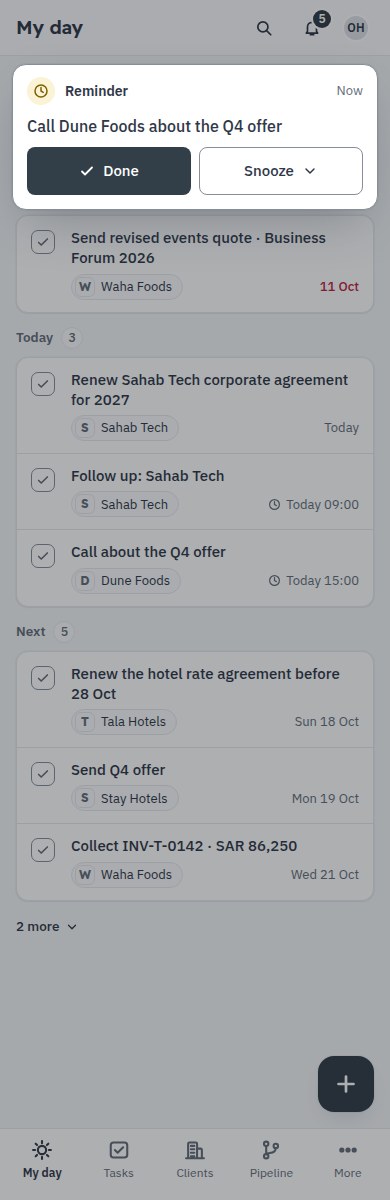
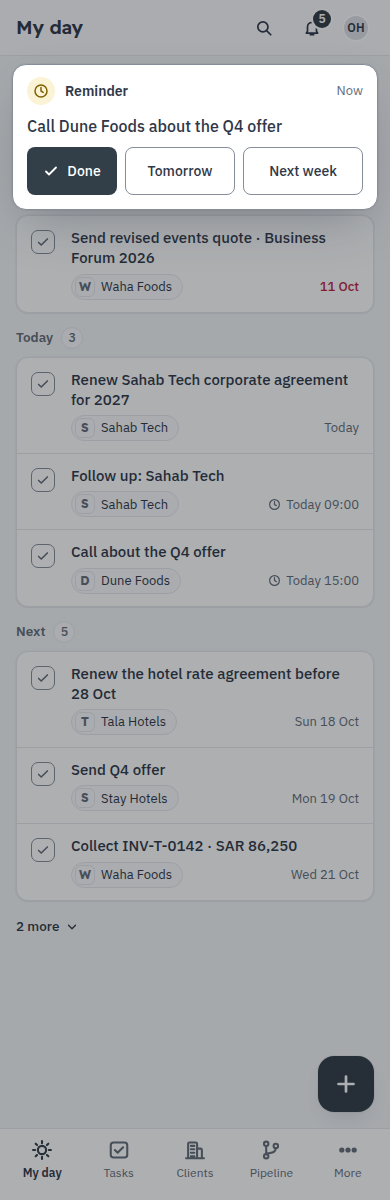
Design: Stage 2 alert has no Snooze (Done, Tomorrow, Next week); browser notification line (Architect, 14 Oct)
Claude-Session: https://claude.ai/code/session_01WPS8Rw97iDr6Hh5jw5gHY1

Changed region(s): [[0.1846, 0.1233, 0.5538, 0.185], [0.6154, 0.1233, 0.8615, 0.1542]]

diff --git a/docs/v2/briefs/my-day-stage2.md b/docs/v2/briefs/my-day-stage2.md
@@ -9,15 +9,14 @@ Stage 1 shipped as #230 (6ea08a0); this builds on it and changes nothing else.
 | Piece | Shipped in Stage 1 | Stage 2 |
 |---|---|---|
 | Reminder time | Reminder shows a raw date-and-time field | **When** chips: **Later today · Tomorrow · Next week · Pick a day**, and always one line saying the result ("Wed 14 Oct · 09:00"); **Pick a day** opens a Day field, a Time field and five time chips (08:00 09:00 12:00 15:00 17:00) |
-| Reminder alert | A reminder only waits in Today and in the bell | At its time, an **alert** with **Done** and **Snooze** (Later today / Tomorrow / Next week); the bell gets the same item |
+| Reminder alert | A reminder only waits in Today and in the bell | At its time, an **alert** with **Done**, **Tomorrow** and **Next week** (no Snooze in v1, the Architect's ruling of 14 Oct); the bell gets the same item; a browser notification too if the person allows it |
 | Follow up | None | **Follow up** on a client and on a task: one entry in the record's existing ⋯ More actions menu; it opens the Capture sheet in Reminder mode, already tied to the record; it becomes a chip on the record and a row in Today |
 
 ## B. Boards (`my-day-stage2/`, one PNG each)
 
 | Board | Shows |
 |---|---|
-| `PhoneReminderAlert` | My day with the alert over it: clock, "Reminder", "Now", the words, **Done** and **Snooze**; Today already lists the reminder rows |
-| `PhoneReminderSnooze` | The same with Snooze open: Later today 17:30, Tomorrow 09:00, Next week Sun 18 Oct |
+| `PhoneReminderAlert` | My day with the alert over it: clock, "Reminder", "Now", the words, **Done**, **Tomorrow**, **Next week**; Today already lists the reminder rows |
 | `PhoneCaptureWhen` | Capture sheet, Reminder: the default, Tomorrow chosen, the result line "Wed 14 Oct · 09:00" under the chips |
 | `PhoneCaptureWhenPick` | Capture sheet, Reminder, **Pick a day** open: Day, Time, time chips; the result line under the chips |
 | `PhoneClientMenu` | Client record on a phone with the ⋯ menu open: **Follow up** is the first entry (the rest stay as built) |
@@ -33,22 +32,22 @@ Stage 1 shipped as #230 (6ea08a0); this builds on it and changes nothing else.
 | Addition | Adds a menu entry, button, field or screen? | Could an existing one serve? | Clear in 5 seconds on a phone? | Removed or merged |
 |---|---|---|---|---|
 | When chips | No new control: they replace the date-and-time field; Pick a day shows two fields only when chosen | The Stage 1 field served but needed a keyboard on a phone | Yes: one tap for the three usual answers; the result is written out under the chips | The raw date-and-time field is removed |
-| Reminder alert | One alert card, the existing toast pattern with two buttons; no screen | The bell serves for later, not for the moment it is due | Yes: the words, Done, Snooze | The bell row and the alert are one item; Snooze uses the same three answers as the chips and the bell's existing Snooze |
+| Reminder alert | One alert card, the existing toast pattern with three buttons; no screen | The bell serves for later, not for the moment it is due | Yes: the words, Done, Tomorrow, Next week | The bell row and the alert are one item; there is no Snooze: Tomorrow and Next week are the When answers again |
 | Follow up | One entry in an existing menu, per record type; no button, no screen | Yes: it is the Capture sheet in Reminder mode | Yes: the sheet is the Stage 1 sheet with the record already named | No second sheet; the chip on the record replaces any "next step" field someone might ask for |
 Counts: menu entries +1 on a client and +1 on a task; buttons +0; fields +0 (one removed); screens +0.
 
 **One capture, everywhere (Architect's ruling of 13 Oct, V633).** The in-page Capture row on My day is a single line that **opens the same Capture sheet** (a bottom sheet on a phone, the card on a wide screen) with the same four kinds, Note, Idea, Checklist and Reminder, and **Only me** on. It has no kind menu or visibility menu of its own; typing in it, `/`, Ctrl K, Create > Capture and the phone + all land in the one sheet, and anything typed in the row carries into the sheet. This is how `MyDayToday`, `MyDayReminderAlert` and `MyDayCaptureWhen` already draw it.
 
 ## D. Words (two words or fewer on a chip or button)
-Reminder · Now · Done · Snooze · Later today · Tomorrow · Next week · Pick a day · When · Day · Time · Follow up · Only me · Save · Undo.
-The alert and the notification use the same words. **Snooze** is the word everywhere (the bell already uses it).
+Reminder · Now · Done · Later today · Tomorrow · Next week · Pick a day · When · Day · Time · Follow up · Only me · Save · Undo.
+The alert, the bell row and the browser notification use the same words. There is no Snooze in v1.
 Times: Riyadh time, 24-hour, Latin digits, Gregorian dates, in Arabic too. **Later today** is three hours on, or 17:30 if that is later than the end of the working day; the result line always shows the real time.
 **Tomorrow** and **Next week** are the next working day and the next Sunday; on a Thursday, Tomorrow reads Sunday (the weekend is Friday and Saturday).
-Arabic (for the owner to confirm): Reminder تذكير · Now الآن · Done تم · Snooze تأجيل · Later today لاحقًا اليوم · Tomorrow غدًا · Next week الأسبوع القادم · Pick a day اختر يومًا · When متى · Day التاريخ · Time الوقت · Follow up متابعة · Only me أنا فقط.
+Arabic (Builder C via QA 1 confirms): Reminder تذكير · Now الآن · Done تم · Later today لاحقًا اليوم · Tomorrow غدًا · Next week الأسبوع القادم · Pick a day اختر يومًا · When متى · Day التاريخ · Time الوقت · Follow up متابعة · Only me أنا فقط.
 
 ## E. Behaviour
-1. **The alert** shows on any page while the app is open, over the content under the top bar. It has the reminder's words (a tap opens the item), **Done** and **Snooze**. It does not cover the floating +, and it never takes focus from a field being typed in. Done ends the reminder. Snooze moves it and shows the new time in the Today block.
-2. **If the app is not open** the reminder waits in the bell and in Today, as in Stage 1. A phone notification outside the app is not drawn and is not promised (see H).
+1. **The alert** shows on any page while the app is open, over the content under the top bar. It has the reminder's words (a tap opens the item), **Done**, **Tomorrow** and **Next week**. It does not cover the floating +, and it never takes focus from a field being typed in. Done ends the reminder. Tomorrow and Next week move it (09:00 Riyadh) and Today shows the new day.
+2. **If the app is closed** the person gets a **browser notification** if they allow it: the same two lines as the alert ("Reminder" and the words), no buttons. The browser's own permission prompt appears once, when the first Reminder is saved; no screen of ours. A true push to a closed app comes later.
 3. **When**: Tomorrow is chosen when the sheet opens (09:00 Riyadh). The result line is always visible. Save is never blocked by the time.
 4. **Follow up** is private: it starts on Only me and the chip on the record shows only to its author (V454). It is a reminder tied to the record: the Today row says "Follow up: <name>" with the clock; done there ends it everywhere. The record can hold one open follow-up per person; setting another asks nothing and replaces the first (Undo restores it).
 5. **The chip on the record** opens the same sheet to change the time or remove the follow-up.
@@ -59,7 +58,7 @@ One main action per screen (Save on the sheet, Done on the alert). Every target 
 ## G. Acceptance tests (Stage 2)
 1. A new Reminder opens with Tomorrow chosen and "Wed 14 Oct · 09:00" shown under the chips; Save needs no further tap.
 2. Pick a day shows Day, Time and the five time chips; choosing 15:00 and Thu 15 Oct updates the result line.
-3. A reminder at its time shows the alert on My day and on Tasks; Done ends it; Snooze > Tomorrow moves it and Today shows the new day.
+3. A reminder at its time shows the alert on My day and on Tasks; Done ends it; Tomorrow moves it and Today shows the new day; there is no Snooze.
 4. The alert does not move a field being typed in and does not cover the floating +.
 5. The bell lists the same reminder once; marking it Done in either place clears both.
 6. On a client and on a task the ⋯ menu has Follow up first; no new button is drawn.
@@ -70,11 +69,10 @@ One main action per screen (Save on the sheet, Done on the alert). Every target 
 11. 390, 375, 360, 320 px: no sideways scroll, 44 px targets.
 12. A failed save keeps the sheet and says so; a failed read draws its own failed block.
 
-## H. Open for the Architect
-1. **Outside the app.** A reminder that fires while the app is closed needs a phone or browser notification (a data and delivery change). Stage 2 as drawn covers the app open; say if the owner wants notifications outside the app, and I will draw the notification wording (it is the alert's two lines).
-2. **Snooze set.** Three answers (Later today, Tomorrow, Next week) match the When chips. If the owner wants "In an hour" or a free time on Snooze, say so; I kept it short.
-3. **One follow-up per person per record** is my guess at the smallest rule; several would need a list on the record (a new section), which the gate argues against.
-4. **Task records.** The task page is not redrawn; the menu entry and the chip follow the client's. The task board `TaskDetail` should get the chip in its header row in the same place.
-5. Arabic words above are mine; Builder C or the owner should confirm Snooze (تأجيل) and Follow up (متابعة).
+## H. Answered by the Architect (14 Oct)
+1. A reminder with the app closed: in-app alert plus a browser notification if allowed; a true push comes later.
+2. No Snooze in v1: Tomorrow and Next week cover it.
+3. Arabic wording: Builder C via QA 1.
+Still mine: one follow-up per person per record (the smallest rule; several would need a list on the record); the task page is not redrawn, the chip goes in the same place in its header row.
 
 Stage 3 (the Thursday weekly review) is for Builder E; I will draw it when asked.
